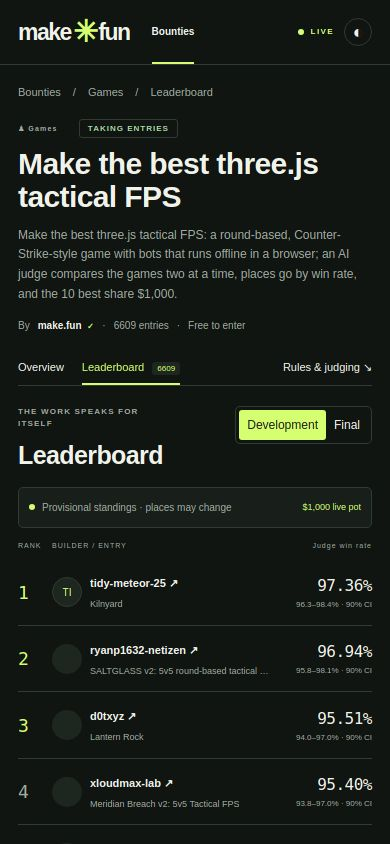
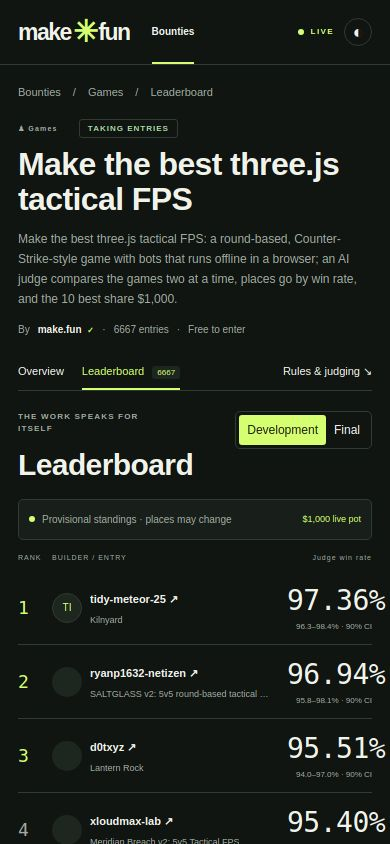
Polish for top 20: editorial type scale

diff --git a/app/style.css b/app/style.css
@@ -28,3 +28,12 @@
 .profile-head{padding:40px 0;gap:26px}.profile-head h1{font-size:44px;letter-spacing:0}.profile-head p{font-size:14px;line-height:1.6}.profile-head>img,.profile-head>.avatar{width:96px;height:96px}.solution{padding:25px 0}.solution h3{font-size:21px}.solution p{font-size:14px}.solution small,.solution>div>a{font-size:12px}.solution strong{font-size:25px}
 @media(max-width:780px){.table-label,.board-row{grid-template-columns:120px minmax(0,1fr) 155px 90px 75px;gap:9px}.table-label span:last-child{display:none}.row-pot{font-size:16px}.row-title b{font-size:13px}.row-time .time{font-size:11px}.detail-grid{grid-template-columns:1fr}.leader-label,.leader-row{grid-template-columns:55px minmax(0,1fr) 130px}}
 @media(max-width:520px){.board-head h1{font-size:24px}.board-head-note{font-size:10px}.stats>div{padding:11px 10px}.stats small{font-size:8px}.stats strong{font-size:20px}.stats em{font-size:9px}.stats .time{font-size:15px}.ticker{padding:8px 0;font-size:9px}.board-work{padding-top:13px}.board-tools .section-title h2{font-size:17px}.board-tools>.search{height:38px}.board-tools .categories button{font-size:10px}.table-label{display:none}.board-row{grid-template-columns:1fr 1fr;gap:9px 12px;padding:12px 11px;min-height:unset}.row-title{grid-column:1/-1;grid-row:1}.row-title b{font-size:14px}.row-title small{font-size:10px}.row-pot{grid-column:1;grid-row:2;font-size:17px}.row-pot small{font-size:9px}.row-time{grid-column:2;grid-row:2}.row-time .time{font-size:11px}.row-date{font-size:9px}.row-fee{grid-column:1;grid-row:3;text-align:left;font-size:11px}.row-fee small,.row-entries small{font-size:9px}.row-entries{display:block;grid-column:2;grid-row:3;font-size:11px}.detail-head h1{font-size:30px}.detail-head>p{font-size:12px}.sponsor{font-size:10px}.tabs a{font-size:11px}.reward-overview{padding:15px 12px}.reward-summary .big-pot{font-size:35px}.quick-facts small{font-size:8px}.quick-facts .time,.quick-facts strong{font-size:12px}.reward-overview .reward-label,.reward-overview .reward{grid-template-columns:42px 1fr 66px 1fr 65px}.reward-overview .reward-label{font-size:7px}.reward-overview .reward>span,.reward-overview .reward-base,.reward-overview .reward-fee{font-size:9px}.reward-overview .reward>strong:last-child{font-size:10px}.detail-grid .prose{font-size:13px}.detail-grid .prose h2{font-size:20px}.dates p{font-size:12px}.standings h2{font-size:25px}.standings .eyebrow{font-size:8px}.board-note{padding:12px 10px;font-size:10px}.board-note>span:last-child{font-size:9px}.leader-label{grid-template-columns:34px minmax(0,1fr) 85px;padding:13px 0 8px;font-size:7px}.leader-row{grid-template-columns:34px minmax(0,1fr) 85px;padding:13px 0}.place{font-size:18px}.entrant{gap:8px}.entrant img,.entrant .avatar{width:30px;height:30px}.entrant a{font-size:11px}.entrant p{font-size:9px;max-width:180px}.leader-row>strong{font-size:16px}.leader-row>strong small{font-size:8px}.pagination{font-size:9px}.pagination button{font-size:10px}.profile-head{padding:28px 0;gap:14px}.profile-head h1{font-size:30px}.profile-head p{font-size:11px}.profile-head>img,.profile-head>.avatar{width:68px;height:68px}.solution h3{font-size:18px}.solution p{font-size:12px}.solution strong{font-size:20px}}
+
+/* Editorial hierarchy for thumbnail-first judging. */
+.board-head{padding:34px 0 24px}.board-head h1{font-size:50px;line-height:1.05;letter-spacing:-1px}.board-head-note{font-size:14px}
+.stats>div{padding:19px 22px}.stats small{font-size:11px}.stats strong{font-size:31px}.stats em{font-size:12px}.stats .time{font-size:24px}
+.board-work{padding-top:28px}.board-tools>.section-title h2{font-size:22px}.board-tools>.section-title>span{font-size:12px}.board-tools>.search{height:44px}.board-tools .categories button,.filter-actions select{font-size:12px}
+.table-label,.board-row{grid-template-columns:180px minmax(320px,1fr) 210px 115px 95px;gap:20px}.table-label{padding:12px 20px;font-size:10px}.board-row{min-height:104px;padding:16px 20px}.row-pot{font-size:29px}.row-pot small,.row-fee small,.row-entries small,.row-title small,.row-date{font-size:11px}.row-title b{font-size:20px;line-height:1.25}.row-title small{margin-top:6px}.row-time .time{font-size:14px}.row-time .progress{height:4px;width:120px}.row-fee,.row-entries{font-size:15px}
+.detail-head h1{font-size:46px}.reward-summary .big-pot{font-size:52px}.standings h2{font-size:36px}.leader-row>strong{font-size:28px}.profile-head h1{font-size:52px}.solution strong{font-size:30px}
+@media(max-width:780px){.board-head h1{font-size:40px}.table-label,.board-row{grid-template-columns:140px minmax(0,1fr) 160px 90px 75px;gap:10px}.board-row{min-height:88px}.row-pot{font-size:24px}.row-title b{font-size:17px}.row-time .time{font-size:13px}.detail-head h1{font-size:40px}.profile-head h1{font-size:42px}}
+@media(max-width:520px){.board-head{padding:25px 0 18px}.board-head h1{font-size:34px;letter-spacing:-.5px}.board-head-note{font-size:11px}.stats>div{padding:14px 12px}.stats strong{font-size:25px}.stats .time{font-size:19px}.board-work{padding-top:20px}.board-row{min-height:unset;padding:16px 12px}.row-title b{font-size:18px}.row-pot{font-size:23px}.row-time .time{font-size:12px}.detail-head h1{font-size:32px}.reward-summary .big-pot{font-size:40px}.standings h2{font-size:30px}.profile-head h1{font-size:34px}}
